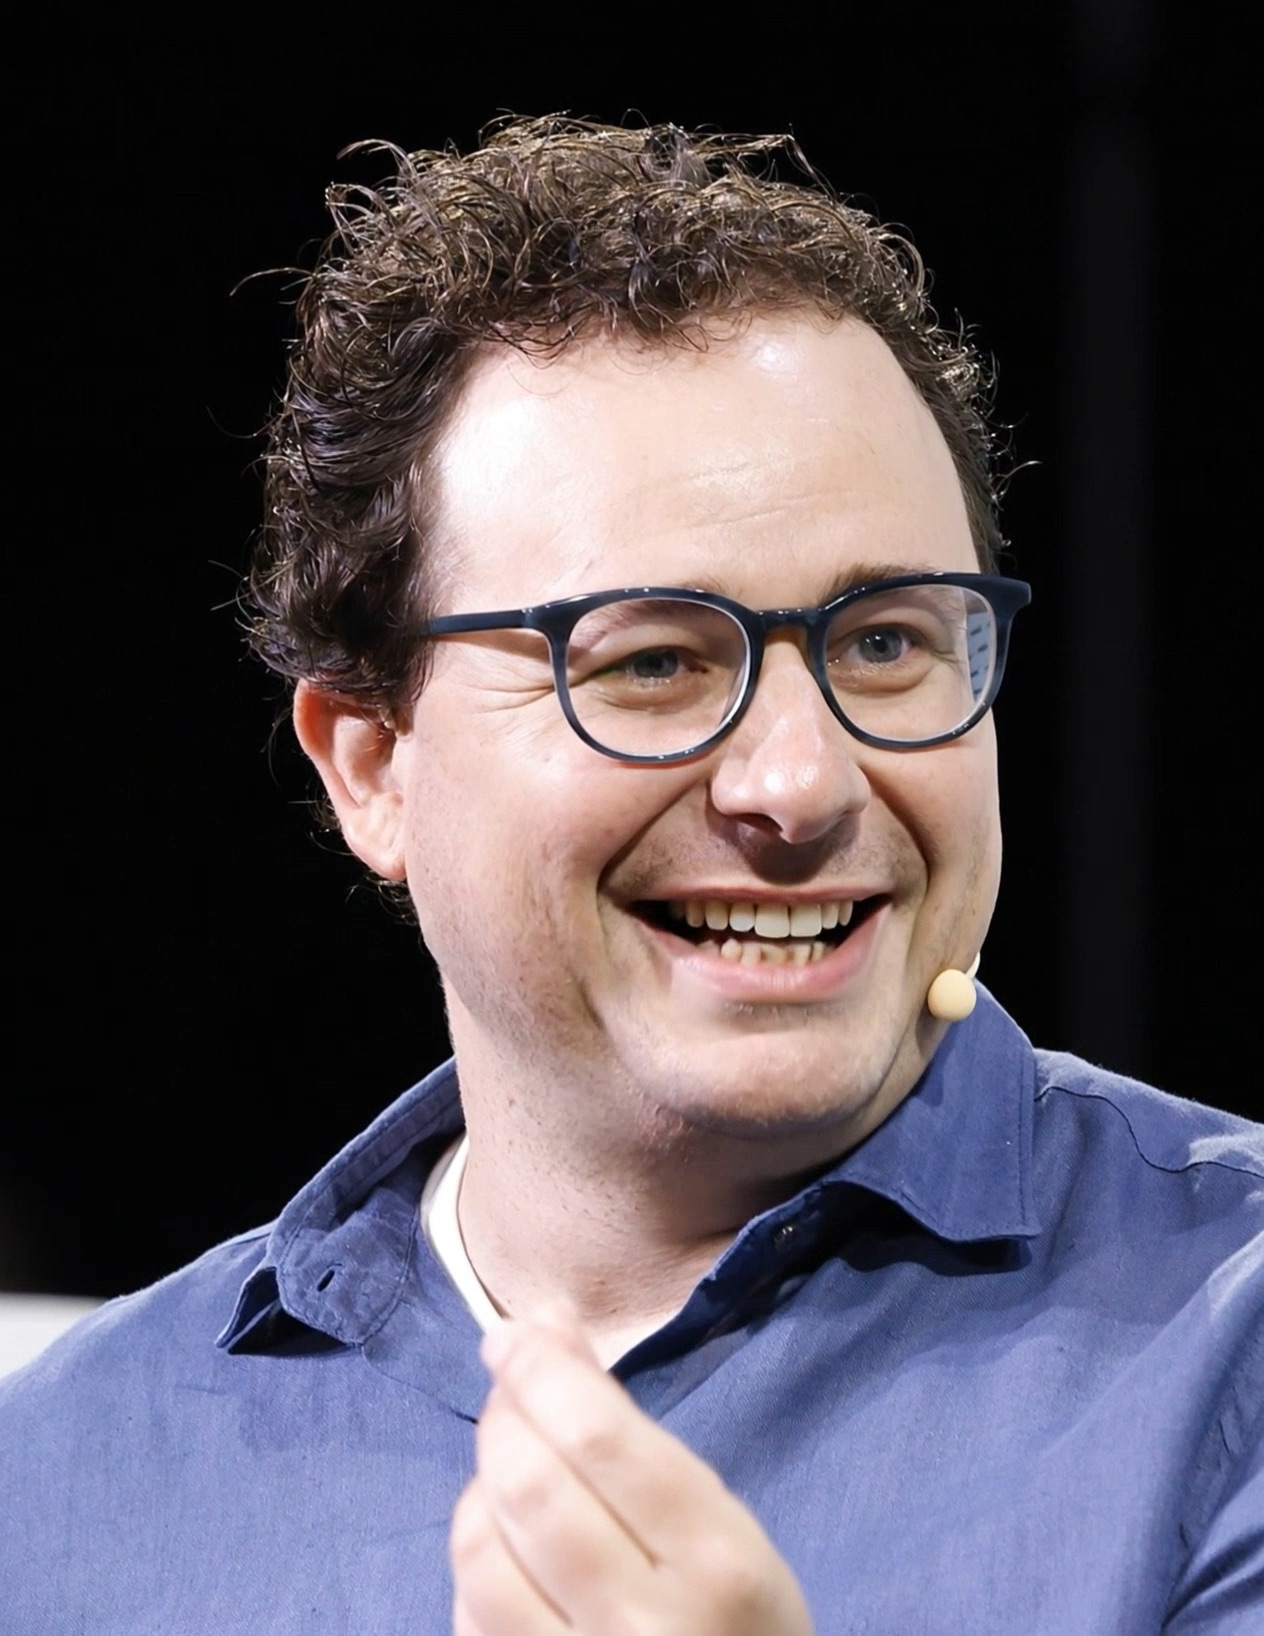
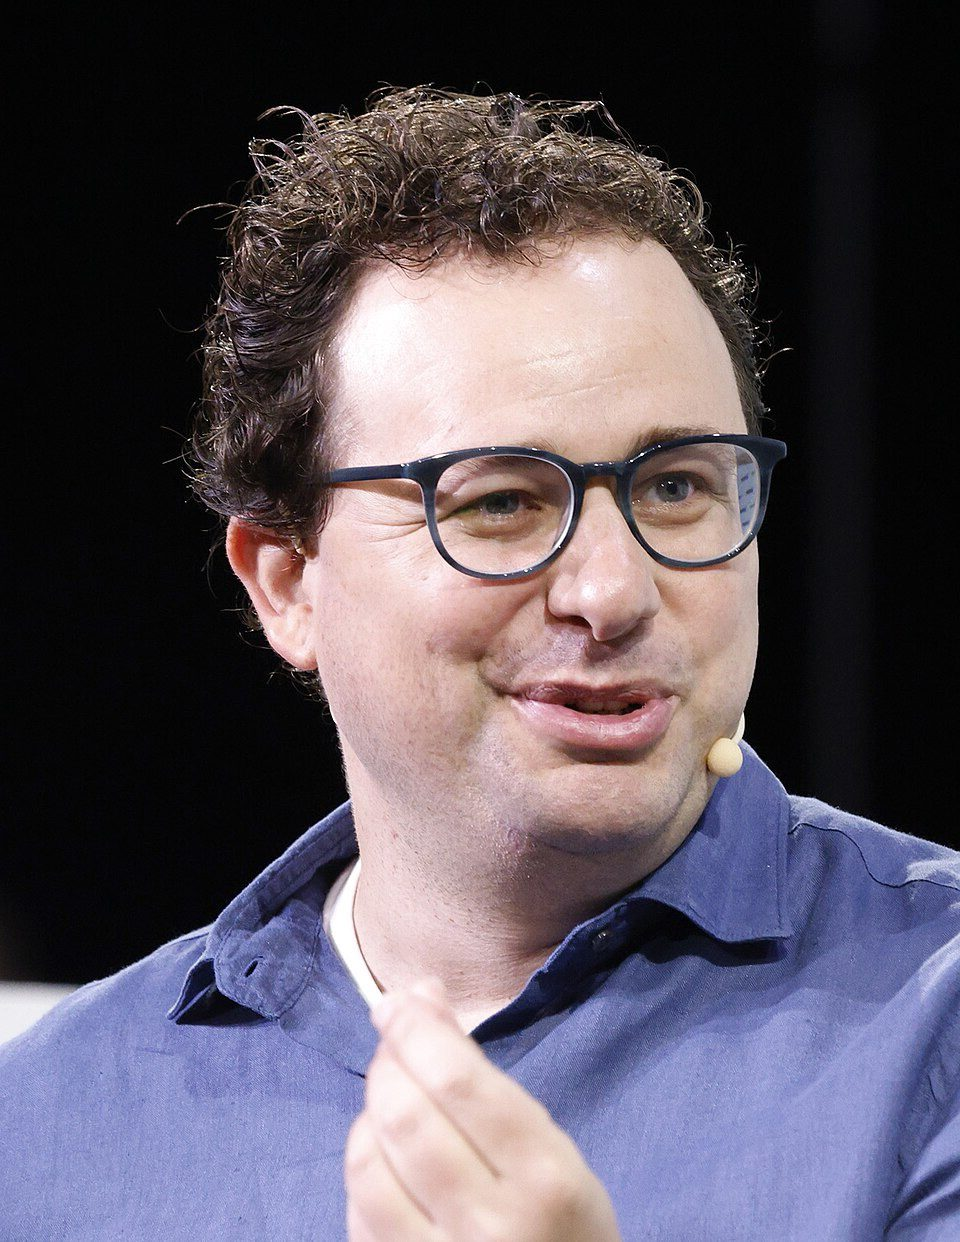
The Odds: swap Dario's portrait for a less-smiling frame, sync per-player static pages
- dario-first.jpg (used as the chooser/hero photo and the doom-video poster) replaced
  with a more serious expression, resized/compressed to match usage (960x1242, ~200KB)
- regenerated public/odds-of-surviving-ai/p/*.html via build-odds-routes.mjs — these
  were stale since before the mobile/stats fixes, so this also propagates all of that
  to the per-player crawler/direct-link routes
- re-shot the project-card thumbnail so it reflects the new portrait

diff --git a/public/odds-of-surviving-ai/p/dario-amodei.html b/public/odds-of-surviving-ai/p/dario-amodei.html
@@ -202,8 +202,10 @@ body.od-menu-open .od-extinctions{display:none!important}
   .od-photo{flex:0 0 32%!important;height:auto!important;min-height:0;
     display:flex!important;flex-direction:row;align-items:stretch;gap:0;padding:0!important;background:#08080a;overflow:hidden}
   .od-photo-scrim{display:none!important}
-  /* portrait = left 40%; the video portraits (Elon/Dario) match the photo layout instead of going full-bleed */
-  .od-hero-img,.od-portrait-vid{position:relative!important;inset:auto!important;height:100%!important;width:auto!important;
+  /* portrait = left 40%; the video portraits (Elon/Dario) match the photo layout instead of going full-bleed.
+     .od-portrait-loop must match: it's the loop clip swapped in once the one-shot doom video ends, over the
+     same box — without it here it falls back to its inline full-bleed style and the panel jumps to 100vw. */
+  .od-hero-img,.od-portrait-vid,.od-portrait-loop{position:relative!important;inset:auto!important;height:100%!important;width:auto!important;
     aspect-ratio:3/4;max-width:40vw;flex:none!important;border-radius:0!important;object-fit:cover!important;object-position:50% 18%!important;background:#08080a}
   /* info = right 60%, on black with a red glow. The glow is tucked into the TOP-right corner and dies
      out before the bottom edge — down there the band meets the game panel's blue sky, and a warm
@@ -246,7 +248,7 @@ body.od-menu-open .od-extinctions{display:none!important}
   .od-result{gap:4px!important}
   .od-key{margin-bottom:5px!important}
   .od-key--drawn{display:none!important}   /* card is face-up: give its description the room */
-  .od-key-labels{font-size:8.5px!important;gap:12px;letter-spacing:0.04em!important}
+  .od-key-labels{font-size:10.5px!important;gap:12px;letter-spacing:0.03em!important}
   .od-key-labels span{flex:1 1 0;min-width:0}                         /* let the long "REALLY, REALLY BAD" wrap, not clip */
   .od-key-labels span:last-child{text-align:right}
   .od-rhead{font-size:clamp(15px,2.2vh,19px)!important}
@@ -280,8 +282,10 @@ body.od-menu-open .od-extinctions{display:none!important}
 .od-landing{height:calc(100dvh - var(--fa-nav-h, 56px));overflow:hidden;display:flex;flex-direction:column;align-items:center;background:radial-gradient(ellipse 70% 75% at 50% 14%, #3a1016 0%, #1c0a0f 38%, #0c0a0d 70%, #08080a 100%);background-size:175% 175%;background-repeat:no-repeat;animation:odBgDrift 26s ease-in-out infinite;padding:clamp(16px,3vh,30px) 28px clamp(18px,3.2vh,32px)}
 @keyframes odBgDrift{0%{background-position:30% 16%}25%{background-position:64% 30%}50%{background-position:74% 12%}75%{background-position:40% 36%}100%{background-position:30% 16%}}
 .od-land-wrap{width:100%;max-width:none;height:100%;display:flex;flex-direction:column}
-.od-land-head{display:flex;justify-content:space-between;font-family:'Space Mono',monospace;font-size:11px;letter-spacing:0.22em;color:rgba(236,234,230,0.62)}
+.od-land-head{display:flex;justify-content:space-between;align-items:baseline;font-family:'Space Mono',monospace;font-size:11px;letter-spacing:0.22em;color:rgba(236,234,230,0.62)}
 .od-land-head .od-mark{color:#E0481B}
+.od-stats-link{display:none;color:rgba(236,234,230,0.5);text-decoration:none;font-size:10px;letter-spacing:0.18em}
+.od-stats-link:hover{color:#ECEAE6}
 .od-eyebrow{margin-top:clamp(14px,3vh,28px);font-family:'Space Mono',monospace;font-size:11px;letter-spacing:0.26em;color:#E0481B}
 .od-headline{margin-top:12px;max-width:820px;font-family:'Archivo',system-ui,sans-serif;font-weight:800;font-size:clamp(26px,calc(3.4vw + 0.9vh),44px);line-height:0.98;letter-spacing:-0.025em;color:#F4EFE4}
 .od-intro{margin-top:14px;max-width:680px;font-family:'Archivo',sans-serif;font-size:clamp(16px,2.1vh,22px);line-height:1.45;color:rgba(236,234,230,0.78)}
@@ -316,6 +320,7 @@ body.od-menu-open .od-extinctions{display:none!important}
   .od-intro{display:none}
   .od-pcard-teaser{font-size:12px}
   .od-land-cta{align-self:stretch;text-align:center;margin-top:14px}
+  .od-stats-link{display:inline-block}
 }
 @media(max-width:680px){ .od-landing{padding-left:14px;padding-right:14px} }
 
@@ -336,6 +341,7 @@ body.od-menu-open .od-extinctions{display:none!important}
   <div class="od-land-wrap">
     <div class="od-land-head">
       <span><span class="od-mark">◆</span> THE ODDS</span>
+      <a href="/theodds/stats" class="od-stats-link">STATS</a>
     </div>
     <h1 class="od-headline" style="margin-top:clamp(18px,3.5vh,34px)">The people who build and study AI think it might end us.</h1>
     <p class="od-intro">Their own estimates of catastrophe are alarmingly high. Choose whose future you trust. Or distrust. Play the odds.</p>
@@ -441,7 +447,7 @@ body.od-menu-open .od-extinctions{display:none!important}
 
     <!-- TEST ONLY: force the next roll/spin/pick outcome (applies once). Remove before ship. -->
     <sc-if value="{{ isPlay }}">
-      <sc-if value="{{ notCards }}">
+      <sc-if value="{{ showTest }}">
         <div class="od-forcetest">
           <span>TEST</span>
           <button onClick="{{ forceGood }}" class="od-forcebtn {{ forceGoodCls }}">GOOD</button>
@@ -629,12 +635,15 @@ class Component extends DCLogic {
     extinctions: (function(){ try { return parseInt(localStorage.getItem('theodds_extinctions'), 10) || 0; } catch (e) { return 0; } })(),
   };
 
+  // TEST good/bad buttons: everywhere except the live production domain (local, staging previews, drafts all show them)
+  isLive = (function(){ try { return location.hostname === 'futures-atlas-02.vercel.app'; } catch (e) { return false; } })();
+
   order = ['amodei', 'musk', 'tegmark'];
 
   players = {
     amodei: {
       short: 'Dario', name: 'Dario Amodei', role: 'Co-founder & CEO, Anthropic',
-      photo: '/odds-of-surviving-ai/research/dario-amodei.jpg',
+      photo: '/odds-of-surviving-ai/research/dario-first.jpg',   // same still as portraitPoster/video first frame → seamless
       credit: 'Photo: TechCrunch, CC BY 2.0',
       teaser: 'A 25% chance things go really, really badly.', teaserNum: '25%',
       oddsBig: '25%', oddsCaption: 'CHANCE IT GOES REALLY, REALLY BADLY', oddsCap: 'REALLY BADLY',
@@ -1299,8 +1308,13 @@ class Component extends DCLogic {
     }
     this.setState({ extinctions: n });
   }
+  // fire-and-forget: one real tally, shared across everyone who plays — /theodds/stats reads it back
+  recordPlay(isDoom) {
+    try { fetch('/api/theodds/stats', { method: 'POST', headers: { 'content-type': 'application/json' }, body: JSON.stringify({ outcome: isDoom ? 'doom' : 'survive' }), keepalive: true }); } catch (e) {}
+  }
 
   resolve(isDoom, p, card) {
+    this.recordPlay(isDoom);
     if (isDoom) { this.doomTone(); this.bumpExtinctions(); } else this.survive();
     if (this.state.mode === 'gauntlet') {
       const results = this.state.gResults.concat(!isDoom);
@@ -1470,6 +1484,7 @@ class Component extends DCLogic {
       extinctions: String(s.extinctions), showExt: !isLanding && !s.menuOpen,
 
       isDie: p.mechanic === 'die', isWheel: p.mechanic === 'wheel', isCards: p.mechanic === 'cards', notCards: p.mechanic !== 'cards',
+      showTest: p.mechanic !== 'cards' && !this.isLive,
       reducedFlag: this.reduced ? '1' : '0', dieToken: s.dieToken + ':' + (this._diePower != null ? this._diePower : 0.55), dieTarget: String(s.dieTarget),
       dieMuseum: s.dieMuseum, dieEncase: s.dieMuseum ? '1' : '0', dieEncaseMs: String(p.doomClipMs || 5000),
       wheelGradient, wheelTicks, wheelRot: s.wheelRot.toFixed(1),

diff --git a/public/odds-of-surviving-ai/p/elon-musk.html b/public/odds-of-surviving-ai/p/elon-musk.html
@@ -202,8 +202,10 @@ body.od-menu-open .od-extinctions{display:none!important}
   .od-photo{flex:0 0 32%!important;height:auto!important;min-height:0;
     display:flex!important;flex-direction:row;align-items:stretch;gap:0;padding:0!important;background:#08080a;overflow:hidden}
   .od-photo-scrim{display:none!important}
-  /* portrait = left 40%; the video portraits (Elon/Dario) match the photo layout instead of going full-bleed */
-  .od-hero-img,.od-portrait-vid{position:relative!important;inset:auto!important;height:100%!important;width:auto!important;
+  /* portrait = left 40%; the video portraits (Elon/Dario) match the photo layout instead of going full-bleed.
+     .od-portrait-loop must match: it's the loop clip swapped in once the one-shot doom video ends, over the
+     same box — without it here it falls back to its inline full-bleed style and the panel jumps to 100vw. */
+  .od-hero-img,.od-portrait-vid,.od-portrait-loop{position:relative!important;inset:auto!important;height:100%!important;width:auto!important;
     aspect-ratio:3/4;max-width:40vw;flex:none!important;border-radius:0!important;object-fit:cover!important;object-position:50% 18%!important;background:#08080a}
   /* info = right 60%, on black with a red glow. The glow is tucked into the TOP-right corner and dies
      out before the bottom edge — down there the band meets the game panel's blue sky, and a warm
@@ -246,7 +248,7 @@ body.od-menu-open .od-extinctions{display:none!important}
   .od-result{gap:4px!important}
   .od-key{margin-bottom:5px!important}
   .od-key--drawn{display:none!important}   /* card is face-up: give its description the room */
-  .od-key-labels{font-size:8.5px!important;gap:12px;letter-spacing:0.04em!important}
+  .od-key-labels{font-size:10.5px!important;gap:12px;letter-spacing:0.03em!important}
   .od-key-labels span{flex:1 1 0;min-width:0}                         /* let the long "REALLY, REALLY BAD" wrap, not clip */
   .od-key-labels span:last-child{text-align:right}
   .od-rhead{font-size:clamp(15px,2.2vh,19px)!important}
@@ -280,8 +282,10 @@ body.od-menu-open .od-extinctions{display:none!important}
 .od-landing{height:calc(100dvh - var(--fa-nav-h, 56px));overflow:hidden;display:flex;flex-direction:column;align-items:center;background:radial-gradient(ellipse 70% 75% at 50% 14%, #3a1016 0%, #1c0a0f 38%, #0c0a0d 70%, #08080a 100%);background-size:175% 175%;background-repeat:no-repeat;animation:odBgDrift 26s ease-in-out infinite;padding:clamp(16px,3vh,30px) 28px clamp(18px,3.2vh,32px)}
 @keyframes odBgDrift{0%{background-position:30% 16%}25%{background-position:64% 30%}50%{background-position:74% 12%}75%{background-position:40% 36%}100%{background-position:30% 16%}}
 .od-land-wrap{width:100%;max-width:none;height:100%;display:flex;flex-direction:column}
-.od-land-head{display:flex;justify-content:space-between;font-family:'Space Mono',monospace;font-size:11px;letter-spacing:0.22em;color:rgba(236,234,230,0.62)}
+.od-land-head{display:flex;justify-content:space-between;align-items:baseline;font-family:'Space Mono',monospace;font-size:11px;letter-spacing:0.22em;color:rgba(236,234,230,0.62)}
 .od-land-head .od-mark{color:#E0481B}
+.od-stats-link{display:none;color:rgba(236,234,230,0.5);text-decoration:none;font-size:10px;letter-spacing:0.18em}
+.od-stats-link:hover{color:#ECEAE6}
 .od-eyebrow{margin-top:clamp(14px,3vh,28px);font-family:'Space Mono',monospace;font-size:11px;letter-spacing:0.26em;color:#E0481B}
 .od-headline{margin-top:12px;max-width:820px;font-family:'Archivo',system-ui,sans-serif;font-weight:800;font-size:clamp(26px,calc(3.4vw + 0.9vh),44px);line-height:0.98;letter-spacing:-0.025em;color:#F4EFE4}
 .od-intro{margin-top:14px;max-width:680px;font-family:'Archivo',sans-serif;font-size:clamp(16px,2.1vh,22px);line-height:1.45;color:rgba(236,234,230,0.78)}
@@ -316,6 +320,7 @@ body.od-menu-open .od-extinctions{display:none!important}
   .od-intro{display:none}
   .od-pcard-teaser{font-size:12px}
   .od-land-cta{align-self:stretch;text-align:center;margin-top:14px}
+  .od-stats-link{display:inline-block}
 }
 @media(max-width:680px){ .od-landing{padding-left:14px;padding-right:14px} }
 
@@ -336,6 +341,7 @@ body.od-menu-open .od-extinctions{display:none!important}
   <div class="od-land-wrap">
     <div class="od-land-head">
       <span><span class="od-mark">◆</span> THE ODDS</span>
+      <a href="/theodds/stats" class="od-stats-link">STATS</a>
     </div>
     <h1 class="od-headline" style="margin-top:clamp(18px,3.5vh,34px)">The people who build and study AI think it might end us.</h1>
     <p class="od-intro">Their own estimates of catastrophe are alarmingly high. Choose whose future you trust. Or distrust. Play the odds.</p>
@@ -441,7 +447,7 @@ body.od-menu-open .od-extinctions{display:none!important}
 
     <!-- TEST ONLY: force the next roll/spin/pick outcome (applies once). Remove before ship. -->
     <sc-if value="{{ isPlay }}">
-      <sc-if value="{{ notCards }}">
+      <sc-if value="{{ showTest }}">
         <div class="od-forcetest">
           <span>TEST</span>
           <button onClick="{{ forceGood }}" class="od-forcebtn {{ forceGoodCls }}">GOOD</button>
@@ -629,12 +635,15 @@ class Component extends DCLogic {
     extinctions: (function(){ try { return parseInt(localStorage.getItem('theodds_extinctions'), 10) || 0; } catch (e) { return 0; } })(),
   };
 
+  // TEST good/bad buttons: everywhere except the live production domain (local, staging previews, drafts all show them)
+  isLive = (function(){ try { return location.hostname === 'futures-atlas-02.vercel.app'; } catch (e) { return false; } })();
+
   order = ['amodei', 'musk', 'tegmark'];
 
   players = {
     amodei: {
       short: 'Dario', name: 'Dario Amodei', role: 'Co-founder & CEO, Anthropic',
-      photo: '/odds-of-surviving-ai/research/dario-amodei.jpg',
+      photo: '/odds-of-surviving-ai/research/dario-first.jpg',   // same still as portraitPoster/video first frame → seamless
       credit: 'Photo: TechCrunch, CC BY 2.0',
       teaser: 'A 25% chance things go really, really badly.', teaserNum: '25%',
       oddsBig: '25%', oddsCaption: 'CHANCE IT GOES REALLY, REALLY BADLY', oddsCap: 'REALLY BADLY',
@@ -1299,8 +1308,13 @@ class Component extends DCLogic {
     }
     this.setState({ extinctions: n });
   }
+  // fire-and-forget: one real tally, shared across everyone who plays — /theodds/stats reads it back
+  recordPlay(isDoom) {
+    try { fetch('/api/theodds/stats', { method: 'POST', headers: { 'content-type': 'application/json' }, body: JSON.stringify({ outcome: isDoom ? 'doom' : 'survive' }), keepalive: true }); } catch (e) {}
+  }
 
   resolve(isDoom, p, card) {
+    this.recordPlay(isDoom);
     if (isDoom) { this.doomTone(); this.bumpExtinctions(); } else this.survive();
     if (this.state.mode === 'gauntlet') {
       const results = this.state.gResults.concat(!isDoom);
@@ -1470,6 +1484,7 @@ class Component extends DCLogic {
       extinctions: String(s.extinctions), showExt: !isLanding && !s.menuOpen,
 
       isDie: p.mechanic === 'die', isWheel: p.mechanic === 'wheel', isCards: p.mechanic === 'cards', notCards: p.mechanic !== 'cards',
+      showTest: p.mechanic !== 'cards' && !this.isLive,
       reducedFlag: this.reduced ? '1' : '0', dieToken: s.dieToken + ':' + (this._diePower != null ? this._diePower : 0.55), dieTarget: String(s.dieTarget),
       dieMuseum: s.dieMuseum, dieEncase: s.dieMuseum ? '1' : '0', dieEncaseMs: String(p.doomClipMs || 5000),
       wheelGradient, wheelTicks, wheelRot: s.wheelRot.toFixed(1),

diff --git a/public/odds-of-surviving-ai/p/max-tegmark.html b/public/odds-of-surviving-ai/p/max-tegmark.html
@@ -202,8 +202,10 @@ body.od-menu-open .od-extinctions{display:none!important}
   .od-photo{flex:0 0 32%!important;height:auto!important;min-height:0;
     display:flex!important;flex-direction:row;align-items:stretch;gap:0;padding:0!important;background:#08080a;overflow:hidden}
   .od-photo-scrim{display:none!important}
-  /* portrait = left 40%; the video portraits (Elon/Dario) match the photo layout instead of going full-bleed */
-  .od-hero-img,.od-portrait-vid{position:relative!important;inset:auto!important;height:100%!important;width:auto!important;
+  /* portrait = left 40%; the video portraits (Elon/Dario) match the photo layout instead of going full-bleed.
+     .od-portrait-loop must match: it's the loop clip swapped in once the one-shot doom video ends, over the
+     same box — without it here it falls back to its inline full-bleed style and the panel jumps to 100vw. */
+  .od-hero-img,.od-portrait-vid,.od-portrait-loop{position:relative!important;inset:auto!important;height:100%!important;width:auto!important;
     aspect-ratio:3/4;max-width:40vw;flex:none!important;border-radius:0!important;object-fit:cover!important;object-position:50% 18%!important;background:#08080a}
   /* info = right 60%, on black with a red glow. The glow is tucked into the TOP-right corner and dies
      out before the bottom edge — down there the band meets the game panel's blue sky, and a warm
@@ -246,7 +248,7 @@ body.od-menu-open .od-extinctions{display:none!important}
   .od-result{gap:4px!important}
   .od-key{margin-bottom:5px!important}
   .od-key--drawn{display:none!important}   /* card is face-up: give its description the room */
-  .od-key-labels{font-size:8.5px!important;gap:12px;letter-spacing:0.04em!important}
+  .od-key-labels{font-size:10.5px!important;gap:12px;letter-spacing:0.03em!important}
   .od-key-labels span{flex:1 1 0;min-width:0}                         /* let the long "REALLY, REALLY BAD" wrap, not clip */
   .od-key-labels span:last-child{text-align:right}
   .od-rhead{font-size:clamp(15px,2.2vh,19px)!important}
@@ -280,8 +282,10 @@ body.od-menu-open .od-extinctions{display:none!important}
 .od-landing{height:calc(100dvh - var(--fa-nav-h, 56px));overflow:hidden;display:flex;flex-direction:column;align-items:center;background:radial-gradient(ellipse 70% 75% at 50% 14%, #3a1016 0%, #1c0a0f 38%, #0c0a0d 70%, #08080a 100%);background-size:175% 175%;background-repeat:no-repeat;animation:odBgDrift 26s ease-in-out infinite;padding:clamp(16px,3vh,30px) 28px clamp(18px,3.2vh,32px)}
 @keyframes odBgDrift{0%{background-position:30% 16%}25%{background-position:64% 30%}50%{background-position:74% 12%}75%{background-position:40% 36%}100%{background-position:30% 16%}}
 .od-land-wrap{width:100%;max-width:none;height:100%;display:flex;flex-direction:column}
-.od-land-head{display:flex;justify-content:space-between;font-family:'Space Mono',monospace;font-size:11px;letter-spacing:0.22em;color:rgba(236,234,230,0.62)}
+.od-land-head{display:flex;justify-content:space-between;align-items:baseline;font-family:'Space Mono',monospace;font-size:11px;letter-spacing:0.22em;color:rgba(236,234,230,0.62)}
 .od-land-head .od-mark{color:#E0481B}
+.od-stats-link{display:none;color:rgba(236,234,230,0.5);text-decoration:none;font-size:10px;letter-spacing:0.18em}
+.od-stats-link:hover{color:#ECEAE6}
 .od-eyebrow{margin-top:clamp(14px,3vh,28px);font-family:'Space Mono',monospace;font-size:11px;letter-spacing:0.26em;color:#E0481B}
 .od-headline{margin-top:12px;max-width:820px;font-family:'Archivo',system-ui,sans-serif;font-weight:800;font-size:clamp(26px,calc(3.4vw + 0.9vh),44px);line-height:0.98;letter-spacing:-0.025em;color:#F4EFE4}
 .od-intro{margin-top:14px;max-width:680px;font-family:'Archivo',sans-serif;font-size:clamp(16px,2.1vh,22px);line-height:1.45;color:rgba(236,234,230,0.78)}
@@ -316,6 +320,7 @@ body.od-menu-open .od-extinctions{display:none!important}
   .od-intro{display:none}
   .od-pcard-teaser{font-size:12px}
   .od-land-cta{align-self:stretch;text-align:center;margin-top:14px}
+  .od-stats-link{display:inline-block}
 }
 @media(max-width:680px){ .od-landing{padding-left:14px;padding-right:14px} }
 
@@ -336,6 +341,7 @@ body.od-menu-open .od-extinctions{display:none!important}
   <div class="od-land-wrap">
     <div class="od-land-head">
       <span><span class="od-mark">◆</span> THE ODDS</span>
+      <a href="/theodds/stats" class="od-stats-link">STATS</a>
     </div>
     <h1 class="od-headline" style="margin-top:clamp(18px,3.5vh,34px)">The people who build and study AI think it might end us.</h1>
     <p class="od-intro">Their own estimates of catastrophe are alarmingly high. Choose whose future you trust. Or distrust. Play the odds.</p>
@@ -441,7 +447,7 @@ body.od-menu-open .od-extinctions{display:none!important}
 
     <!-- TEST ONLY: force the next roll/spin/pick outcome (applies once). Remove before ship. -->
     <sc-if value="{{ isPlay }}">
-      <sc-if value="{{ notCards }}">
+      <sc-if value="{{ showTest }}">
         <div class="od-forcetest">
           <span>TEST</span>
           <button onClick="{{ forceGood }}" class="od-forcebtn {{ forceGoodCls }}">GOOD</button>
@@ -629,12 +635,15 @@ class Component extends DCLogic {
     extinctions: (function(){ try { return parseInt(localStorage.getItem('theodds_extinctions'), 10) || 0; } catch (e) { return 0; } })(),
   };
 
+  // TEST good/bad buttons: everywhere except the live production domain (local, staging previews, drafts all show them)
+  isLive = (function(){ try { return location.hostname === 'futures-atlas-02.vercel.app'; } catch (e) { return false; } })();
+
   order = ['amodei', 'musk', 'tegmark'];
 
   players = {
     amodei: {
       short: 'Dario', name: 'Dario Amodei', role: 'Co-founder & CEO, Anthropic',
-      photo: '/odds-of-surviving-ai/research/dario-amodei.jpg',
+      photo: '/odds-of-surviving-ai/research/dario-first.jpg',   // same still as portraitPoster/video first frame → seamless
       credit: 'Photo: TechCrunch, CC BY 2.0',
       teaser: 'A 25% chance things go really, really badly.', teaserNum: '25%',
       oddsBig: '25%', oddsCaption: 'CHANCE IT GOES REALLY, REALLY BADLY', oddsCap: 'REALLY BADLY',
@@ -1299,8 +1308,13 @@ class Component extends DCLogic {
     }
     this.setState({ extinctions: n });
   }
+  // fire-and-forget: one real tally, shared across everyone who plays — /theodds/stats reads it back
+  recordPlay(isDoom) {
+    try { fetch('/api/theodds/stats', { method: 'POST', headers: { 'content-type': 'application/json' }, body: JSON.stringify({ outcome: isDoom ? 'doom' : 'survive' }), keepalive: true }); } catch (e) {}
+  }
 
   resolve(isDoom, p, card) {
+    this.recordPlay(isDoom);
     if (isDoom) { this.doomTone(); this.bumpExtinctions(); } else this.survive();
     if (this.state.mode === 'gauntlet') {
       const results = this.state.gResults.concat(!isDoom);
@@ -1470,6 +1484,7 @@ class Component extends DCLogic {
       extinctions: String(s.extinctions), showExt: !isLanding && !s.menuOpen,
 
       isDie: p.mechanic === 'die', isWheel: p.mechanic === 'wheel', isCards: p.mechanic === 'cards', notCards: p.mechanic !== 'cards',
+      showTest: p.mechanic !== 'cards' && !this.isLive,
       reducedFlag: this.reduced ? '1' : '0', dieToken: s.dieToken + ':' + (this._diePower != null ? this._diePower : 0.55), dieTarget: String(s.dieTarget),
       dieMuseum: s.dieMuseum, dieEncase: s.dieMuseum ? '1' : '0', dieEncaseMs: String(p.doomClipMs || 5000),
       wheelGradient, wheelTicks, wheelRot: s.wheelRot.toFixed(1),
